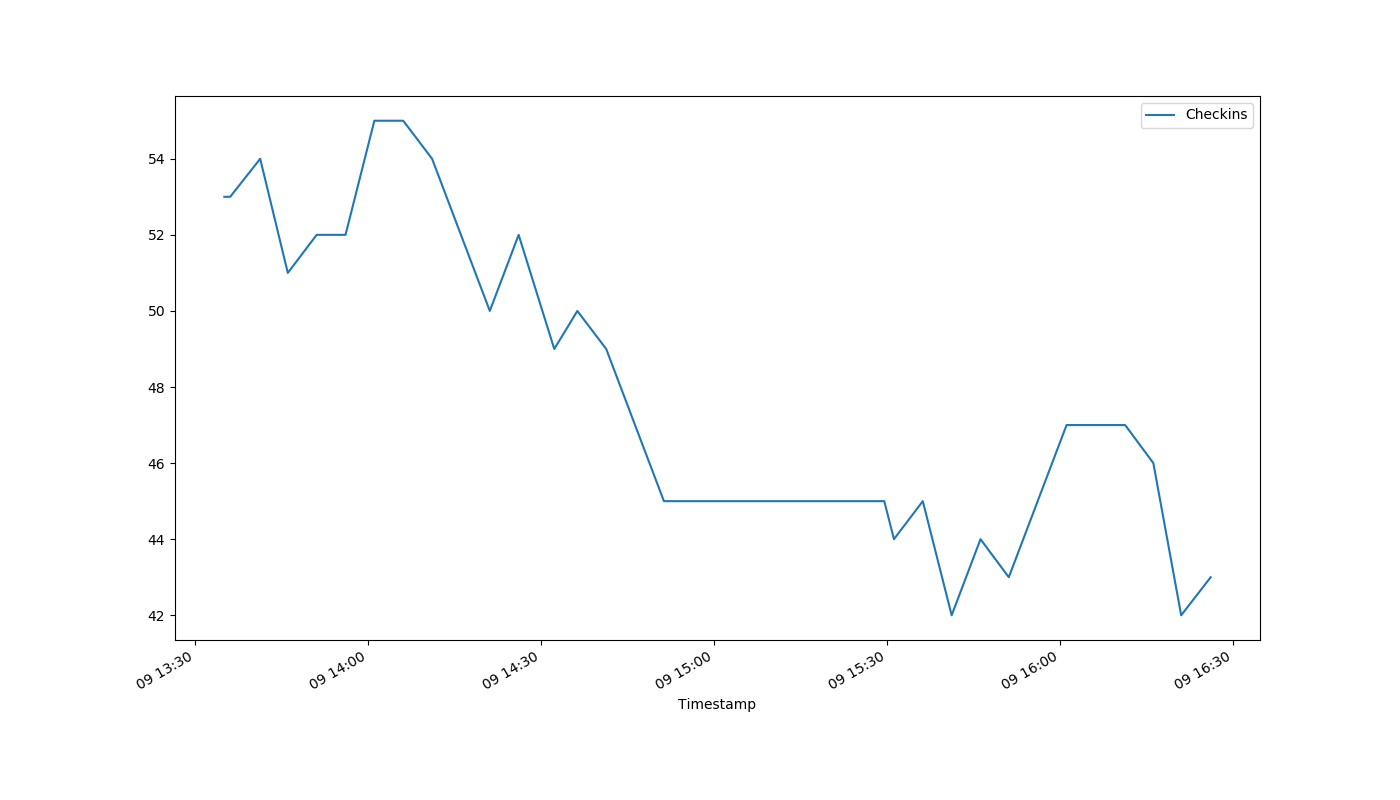
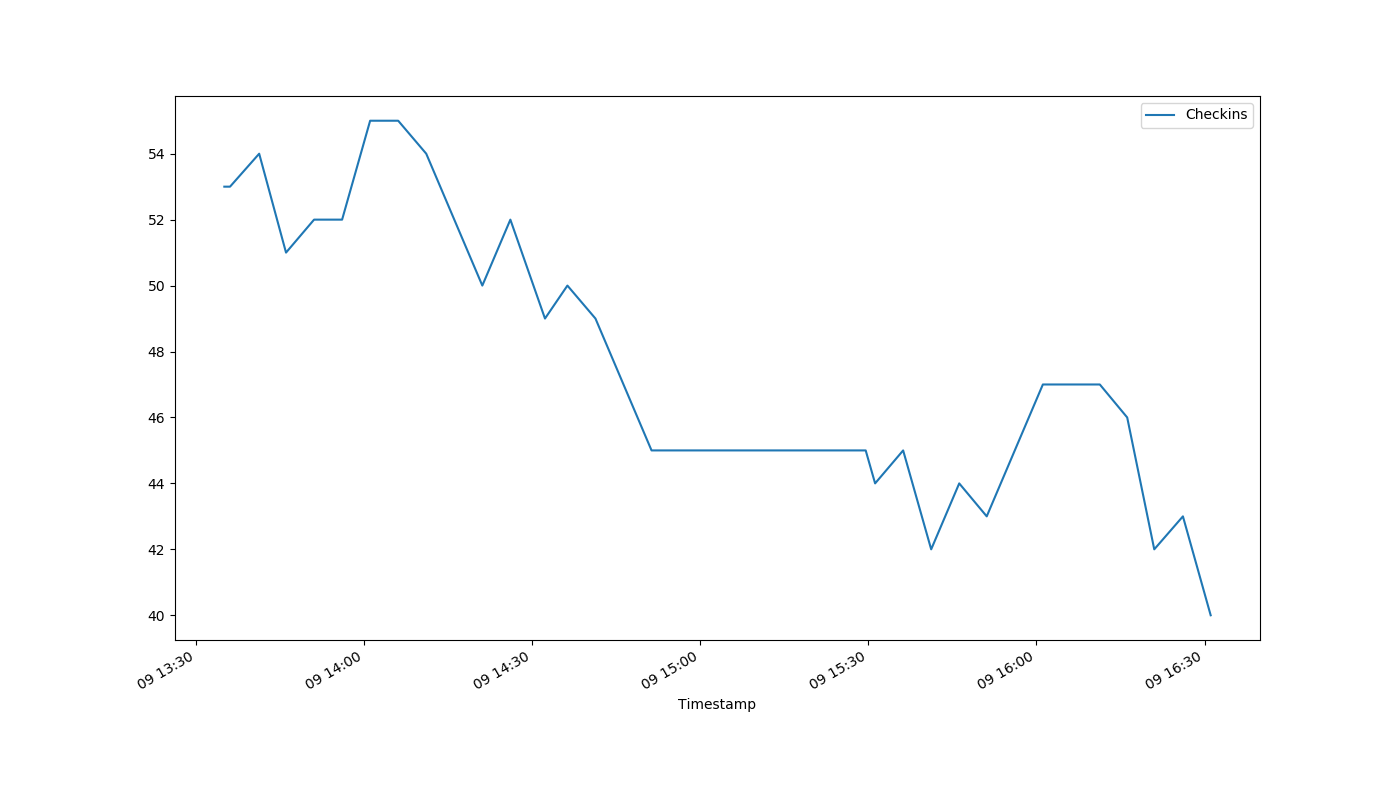
auto-Aug-09-16:34:24

diff --git a/index.html b/index.html
@@ -1,1 +1,1 @@
-<!DOCTYPE html><html><head><meta http-equiv="refresh" content="30"><link rel='stylesheet' href='holmcurrent.css'></head><body><p id='count'>43</p><div id='graph-wrap'><img id='graph' src='holmgraph-Aug-09.png'></div><p id='updated'>Last updated 16:27:15 / 16:26:08</p></body></html>
+<!DOCTYPE html><html><head><meta http-equiv="refresh" content="30"><link rel='stylesheet' href='holmcurrent.css'></head><body><p id='count'>40</p><div id='graph-wrap'><img id='graph' src='holmgraph-Aug-09.png'></div><p id='updated'>Last updated 16:32:15 / 16:31:05</p></body></html>
